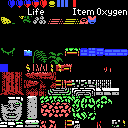
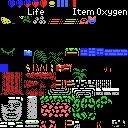
added jungle tile animations, and fixed a bug on item pickup

diff --git a/java/src/xspelunker2/GenerateTiles.java b/java/src/xspelunker2/GenerateTiles.java
@@ -28,6 +28,7 @@ public class GenerateTiles {
         extractTiles("data/pyramid/tiles.png", "src/autogenerated/tiles-pyramid", 32, 128);
         extractTiles("data/calendar-tiles.png", "src/autogenerated/tiles-calendar", 24, 128);
         extractTiles("data/teleporter-room-tiles.png", "src/autogenerated/tiles-teleporter", 24, 128);
+        extractAllTiles("data/animations-jungle.png", "src/autogenerated/animations-jungle");
         extractAllTiles("data/animations-pyramid.png", "src/autogenerated/animations-pyramid");
         extractTilesObjects("data/objects.png", "src/autogenerated/tiles-objects");
         extractTilesBigObjects("data/objects.png", "src/autogenerated/tiles-large-objects");
